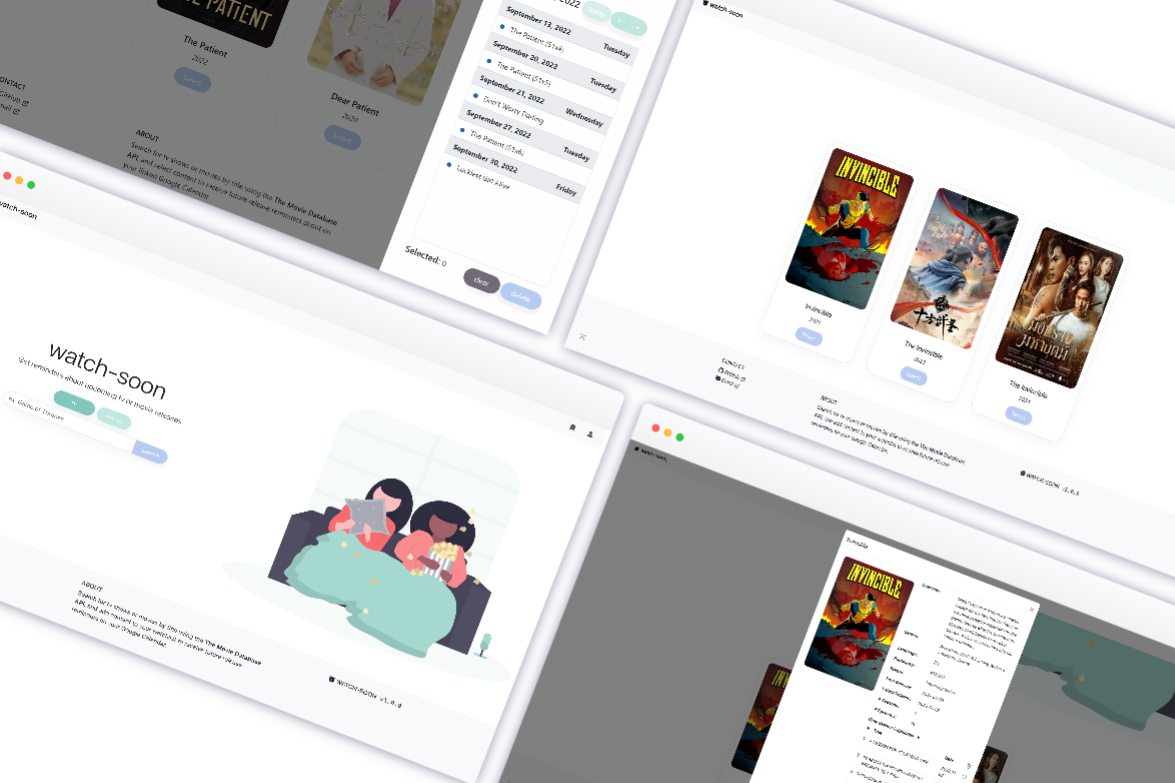
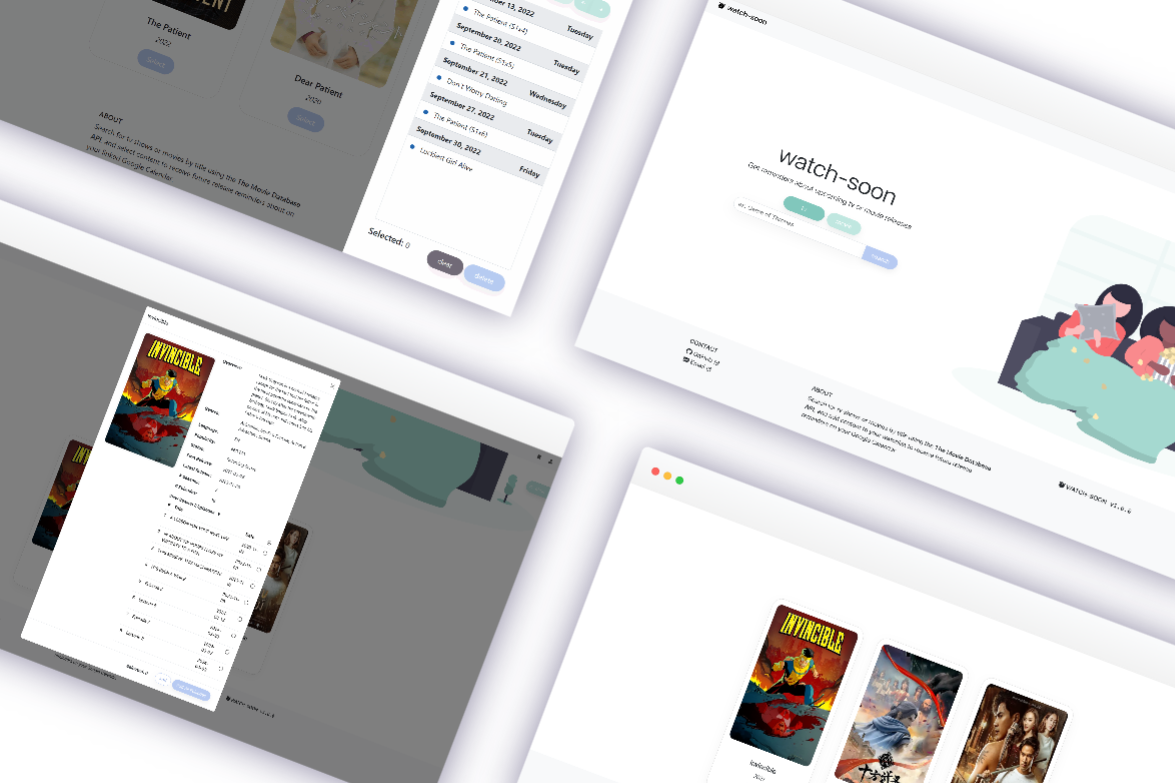
Added hover for links on project photos

diff --git a/src/components/ProjectsSection.jsx b/src/components/ProjectsSection.jsx
@@ -1,7 +1,13 @@
 import watch_soon from "../assets/watch-soon.png";
 import adopt_a_pal from "../assets/adopt-a-pal.png";
 import portfolio from "../assets/portfolio.png";
-import { LuGithub, LuExternalLink, LuFigma } from "react-icons/lu";
+import {
+  LuGithub,
+  LuExternalLink,
+  LuFigma,
+  LuEye,
+  LuCode2,
+} from "react-icons/lu";
 
 const ProjectsSection = () => {
   return (
@@ -17,10 +23,10 @@ const ProjectsSection = () => {
         </h3>
       </div>
       <div className="space-y-8 text-[#6B6573] dark:text-white">
-        {/* FIRST PROJECT CARD */}
+        {/* PROJECT 1 CARD */}
         <div class="group grid grid-cols-10 items-center">
-          {/* PROJECT DESCRIPTION */}
-          <div class="col-span-full row-span-full p-8 px-4 text-start opacity-0 transition duration-300 hover:opacity-100 md:col-span-5 md:col-start-2 md:p-0 md:opacity-100">
+          {/* PROJECT 1 DESCRIPTION */}
+          <div class="visible relative z-50 col-span-full row-span-full p-8 px-4 text-start transition duration-300 group-hover:invisible md:visible md:col-span-5 md:col-start-2 md:p-0 md:group-hover:visible">
             <h4 class="font-mono text-sm text-[#F38BBB] dark:text-[#7943ED]">
               React Portfolio Website
             </h4>
@@ -46,7 +52,7 @@ const ProjectsSection = () => {
                 Netlify
               </li>
             </ul>
-            <div className="mt-3 flex flex-row items-center justify-start space-x-4">
+            {/* <div className="mt-3 flex flex-row items-center justify-start space-x-4 md:hidden">
               <a
                 href="https://github.com/encarnac/portfolio"
                 className="transition duration-300 ease-in-out hover:scale-110"
@@ -59,32 +65,60 @@ const ProjectsSection = () => {
               >
                 <LuExternalLink className="size-5" />
               </a>
-            </div>
+            </div> */}
           </div>
 
-          {/* PROJECT PHOTO */}
-          <div class="relative z-[-1] col-span-full row-span-full h-full rounded-3xl border-[1px] border-[#797382]/40 border-white p-2 transition duration-300 ease-in-out group-hover:border-2 group-hover:border-[#F38BBB] dark:border-[#807C8E]/70 dark:group-hover:border-[#7943ED] md:col-start-6 md:col-end-10 md:h-fit">
+          {/* PROJECT 1 PHOTO */}
+          <div class="relative col-span-full row-span-full h-full rounded-3xl border-[1px] border-[#797382]/40 border-white p-2 transition duration-300 ease-in-out group-hover:border-[#F38BBB] dark:border-[#807C8E]/70 dark:group-hover:border-[#7943ED] md:col-start-6 md:col-end-10 md:h-fit">
+            <div className="absolute left-1/2 top-1/2 z-50 hidden -translate-x-1/2 -translate-y-1/2 transform gap-x-4 text-white group-hover:flex">
+              <a
+                href="https://github.com/encarnac/portfolio"
+                className="rounded-full border-2 border-white p-2 mix-blend-lighten shadow-lg transition duration-300 ease-in-out hover:scale-110"
+              >
+                <LuCode2 className="size-8" />
+              </a>
+              <a
+                href="https://encarnac.netlify.app/"
+                className="rounded-full border-2 border-white p-2 shadow-lg transition duration-300 ease-in-out hover:scale-110"
+              >
+                <LuEye className="size-8" />
+              </a>
+            </div>
             <img
               src={portfolio}
               alt="adopt-a-pal mockups"
-              className="opacity30 h-full w-full rounded-2xl object-cover transition duration-300 ease-linear group-hover:opacity-10 md:opacity-100 md:group-hover:opacity-100"
+              className="h-full w-full rounded-2xl object-cover opacity-10 transition duration-300 ease-linear group-hover:opacity-100 md:opacity-100 md:group-hover:opacity-70"
             />
           </div>
         </div>
 
-        {/* SECOND PROJECT CARD */}
+        {/* PROJECT 2 CARD */}
         <div class="group grid grid-cols-10 items-center">
-          {/* PROJECT PHOTO */}
-          <div class="relative z-[-1] col-span-full row-span-full h-full rounded-3xl border-[1px] border-white p-2 transition duration-300 ease-in-out group-hover:border-2 group-hover:border-[#F38BBB] dark:border-[#807C8E]/70 dark:group-hover:border-[#7943ED] md:col-start-2 md:col-end-6 md:h-fit">
+          {/* PROJECT 2 PHOTO */}
+          <div class="relative col-span-full row-span-full h-full rounded-3xl border-[1px] border-white p-2 transition duration-300 ease-in-out group-hover:border-[#F38BBB] dark:border-[#807C8E]/70 dark:group-hover:border-[#7943ED] md:col-start-2 md:col-end-6 md:h-fit">
+            <div className="absolute left-1/2 top-1/2 z-50 hidden -translate-x-1/2 -translate-y-1/2 transform gap-x-4 bg-opacity-0 text-white group-hover:flex">
+              <a
+                href="https://github.com/encarnac/tv-movie-reminder"
+                className="rounded-full border-2 border-white p-2 shadow-lg transition duration-300 ease-in-out hover:scale-110"
+              >
+                <LuCode2 className="size-8" />
+              </a>
+              <a
+                href="https://watch-soon.up.railway.app/ "
+                className="rounded-full border-2 border-white p-2 shadow-lg transition duration-300 ease-in-out hover:scale-110"
+              >
+                <LuEye className="size-8" />
+              </a>
+            </div>
             <img
               src={watch_soon}
               alt="adopt-a-pal mockups"
-              className="h-full w-full rounded-2xl object-cover transition duration-300 ease-linear group-hover:opacity-10 md:opacity-100 md:group-hover:opacity-100"
+              className="h-full w-full rounded-2xl object-cover opacity-10 transition duration-300 ease-linear group-hover:opacity-100 md:opacity-100 md:group-hover:opacity-70"
             />
           </div>
 
-          {/* PROJECT DESCRIPTION */}
-          <div class="col-span-full row-span-full p-8 px-4 text-end opacity-0 transition duration-300 hover:opacity-100 md:col-span-5 md:col-start-5 md:p-0 md:opacity-100">
+          {/* PROJECT 2 DESCRIPTION */}
+          <div class="visible relative z-50 col-span-full row-span-full p-8 px-4 text-end transition duration-300 group-hover:invisible md:visible md:col-span-5 md:col-start-5 md:p-0 md:group-hover:visible">
             <h4 class="font-mono text-sm text-[#F38BBB] dark:text-[#7943ED]">
               TV and Movie Reminder App
             </h4>
@@ -116,7 +150,7 @@ const ProjectsSection = () => {
                 Railway
               </li>
             </ul>{" "}
-            <div className="mt-3 flex flex-row items-center justify-end space-x-4">
+            {/* <div className="mt-3 flex flex-row items-center justify-end space-x-4">
               <a
                 href="https://github.com/encarnac/tv-movie-reminder"
                 className="transition duration-300 ease-in-out hover:scale-110"
@@ -129,14 +163,14 @@ const ProjectsSection = () => {
               >
                 <LuExternalLink className="size-5" />
               </a>
-            </div>
+            </div> */}
           </div>
         </div>
 
-        {/* THIRD PROJECT CARD */}
+        {/* PROJECT 3 CARD */}
         <div class="group grid grid-cols-10 items-center">
-          {/* PROJECT DESCRIPTION */}
-          <div class="col-span-full row-span-full p-8 px-4 text-start opacity-0 transition duration-300 hover:opacity-100 md:col-span-5 md:col-start-2 md:p-0 md:opacity-100">
+          {/* PROJECT 3 DESCRIPTION */}
+          <div class="visible relative z-50 col-span-full row-span-full p-8 px-4 text-start transition duration-300 group-hover:invisible md:visible md:col-span-5 md:col-start-2 md:p-0 md:group-hover:visible">
             <h4 class="font-mono text-sm text-[#F38BBB] dark:text-[#7943ED]">
               Pet Adoption "Dating" App
             </h4>
@@ -166,28 +200,28 @@ const ProjectsSection = () => {
                 Figma
               </li>
             </ul>
-            <div className="mt-3 flex flex-row items-center justify-start space-x-4">
+          </div>
+
+          {/* PROJECT 3 PHOTO */}
+          <div class="relative col-span-full row-span-full h-full rounded-3xl border-[1px] border-[#797382]/40 border-white p-2 transition duration-300 ease-in-out group-hover:border-[#F38BBB] dark:border-[#807C8E]/70 dark:group-hover:border-[#7943ED] md:col-start-6 md:col-end-10 md:h-fit">
+            <div className="absolute left-1/2 top-1/2 z-50 hidden -translate-x-1/2 -translate-y-1/2 transform gap-x-4 bg-opacity-0 text-white group-hover:flex">
               <a
                 href="https://github.com/encarnac/adopt-a-pal"
-                className="transition duration-300 ease-in-out hover:scale-110"
+                className="rounded-full border-2 border-white p-2 shadow-lg transition duration-300 ease-in-out hover:scale-110"
               >
-                <LuGithub className="size-5" />
+                <LuCode2 className="size-8" />
               </a>
               <a
                 href="https://www.figma.com/file/yJkg7EMO0fpvOo6WCn6JMO/Desktop-Prototype?type=design&node-id=0%3A1&mode=design&t=dxbTPTU57jhHoxhv-1"
-                className="transition duration-300 ease-in-out hover:scale-110"
+                className="rounded-full border-2 border-white p-2 shadow-lg transition duration-300 ease-in-out hover:scale-110"
               >
-                <LuFigma className="size-5" />
+                <LuFigma className="size-8" />
               </a>
             </div>
-          </div>
-
-          {/* PROJECT PHOTO */}
-          <div class="relative z-[-1] col-span-full row-span-full h-full rounded-3xl border-[1px] border-[#797382]/40 border-white p-2 transition duration-300 ease-in-out group-hover:border-2 group-hover:border-[#F38BBB] dark:border-[#807C8E]/70 dark:group-hover:border-[#7943ED] md:col-start-6 md:col-end-10 md:h-fit">
             <img
               src={adopt_a_pal}
               alt="adopt-a-pal mockups"
-              className="h-full w-full rounded-2xl object-cover transition duration-300 ease-linear group-hover:opacity-10 md:opacity-100 md:group-hover:opacity-100"
+              className="h-full w-full rounded-2xl object-cover opacity-10 transition duration-300 ease-linear group-hover:opacity-100 md:opacity-100 md:group-hover:opacity-70"
             />
           </div>
         </div>
